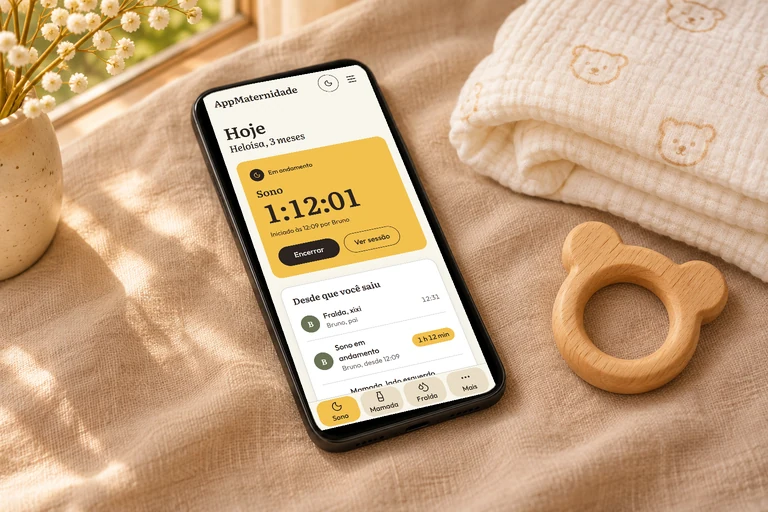
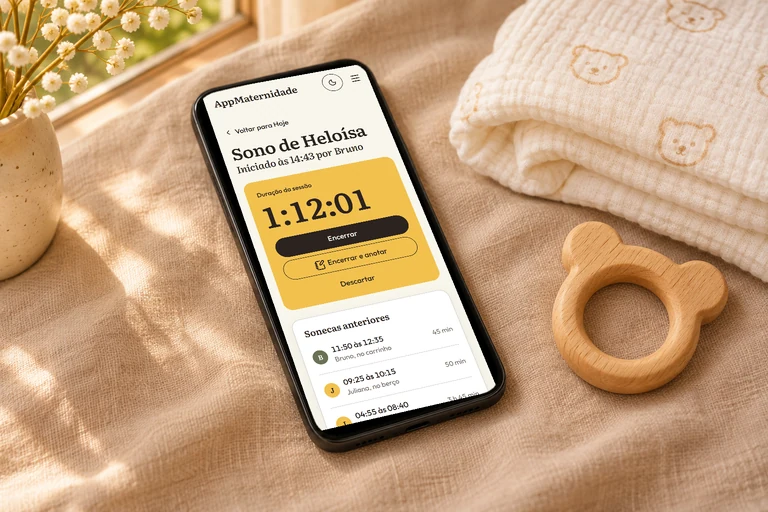
Recompõe as cenas do herói e da tabela do Início com telas nítidas

Changed region(s): [[0.2812, 0.2188, 0.6562, 0.8438], [0.5312, 0.625, 0.5938, 0.6875], [0.4062, 0.125, 0.4688, 0.1875]]

diff --git a/web/public/cenas/inicio/PROVENANCE.md b/web/public/cenas/inicio/PROVENANCE.md
@@ -27,3 +27,11 @@ Same scene sources and compositor (`compor.py`, `verde_restante: 0`); the screen
 - faixa-cacau@2x.webp: scene `brutos/S4_celular_linho.png`; captures: Hoje (Madrugada active, session running) 390x850; one-device fallback because the S3 two-tablet scene overlaps the tablets; 2026-11-11; sha256 a794f2c63da93261c31850f2faaff85ffdaa1585082ddb1405fe4bc686971c65
 - tabela@1x.webp: scene `brutos/S4_celular_linho.png`; captures: Hoje (day) 390x850; 2026-11-11; sha256 f65156590a9e7619e516ad662f440835ef0fefd2013cd7264e7d02f6ab12bb47
 - tabela@2x.webp: scene `brutos/S4_celular_linho.png`; captures: Hoje (day) 390x850; 2026-11-11; sha256 ee5fe93871ca5ef51f5739b4e48d9061d40dcf539b354cd2b7aa70e8017f2e84
+
+
+## Recomposed by POL-INI (2026-11-11)
+
+Polish round (spec SPEC_POLIMENTO v2, item 1 of the Início return). Same raw scenes and compositor (`compor.py`, `verde_restante: 0`); fresh window captures of this build's own screens at 390 px wide, deviceScaleFactor 2 (780 px wide, wider than the green boxes in the 1536x1024 scene), reduced motion, demonstration notice hidden at capture time, no "Protótipo" or "dados de exemplo" text. Model "Codex image_gen (ChatGPT plan)" for the raw scenes; the scene files are not regenerated.
+
+- heroi@1x.webp, heroi@2x.webp: scene `brutos/S1_trio_mel.png` (sha256 1fb08107bd0b7ec6368f528325cd98a0efaf4db582c0859bbcc0587ca3d91d53), prompt id S1_trio_mel; three different screens: Hoje (day) 390x1057, Hoje (Madrugada) 390x849, Sessão 390x1022; sha256 heroi@1x 1e7c47395f629d5c86a19ca8e809af71d84b3f2d629af34ceb7de00ddee51d50, heroi@2x dee22d647b18d34280d1c6e1c093881b2c99d7c59912ad4de183f381bc5fa90a
+- tabela@1x.webp, tabela@2x.webp: scene `brutos/S4_celular_linho.png` (sha256 569aeaa94ec46e63c08640f4476cb12da6ff93e133c822c870fdf76691844b60), prompt id S4_celular_linho; screen: Sessão (day) 390x850; sha256 tabela@1x d95e3ac7332b9a26fa8ee03e1283aacb3a216a2c3ae6245bd54f97d7e9a4c3c0, tabela@2x 3ac3d9bfebc5438da551213b161b4e9c04c3eb28a838a55f99e66516d55d3325
